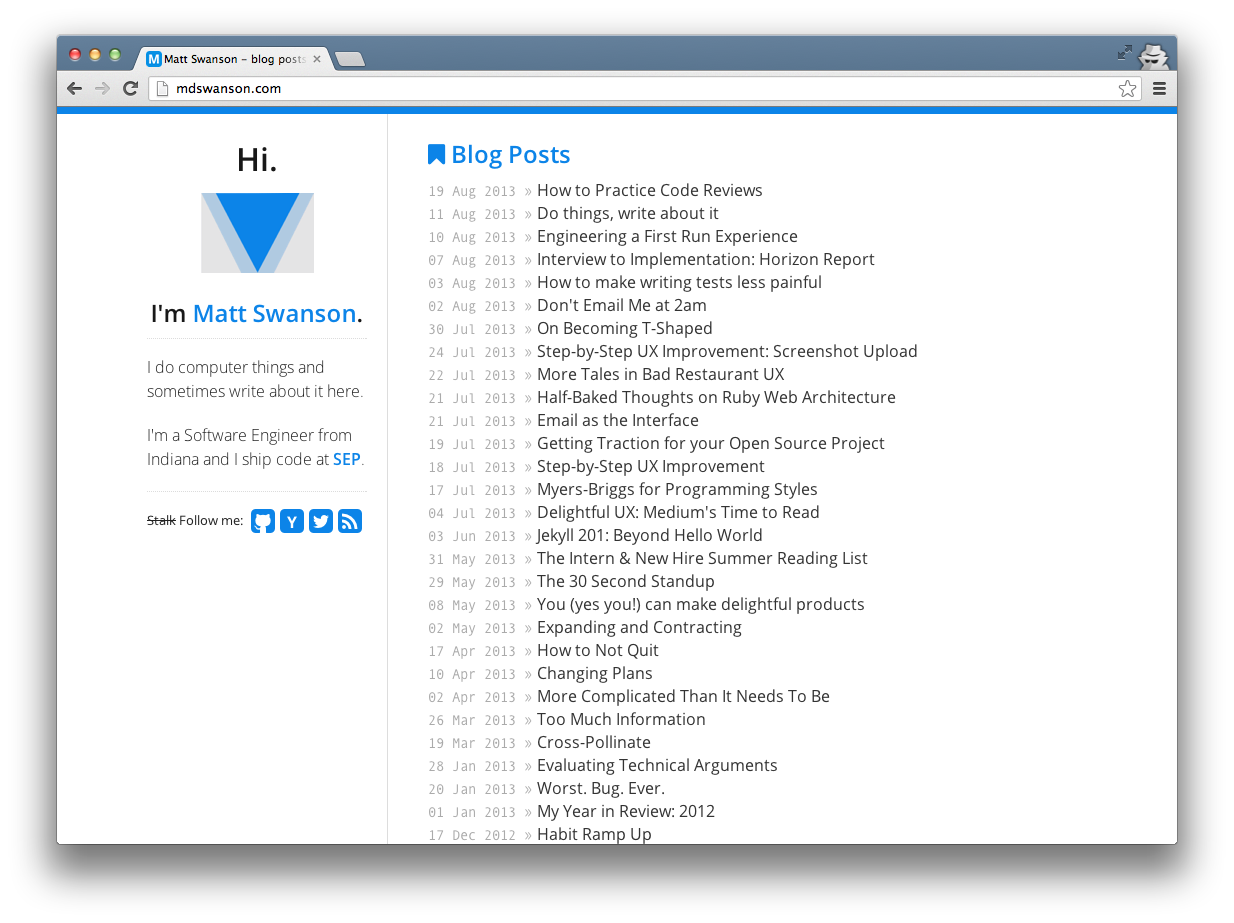
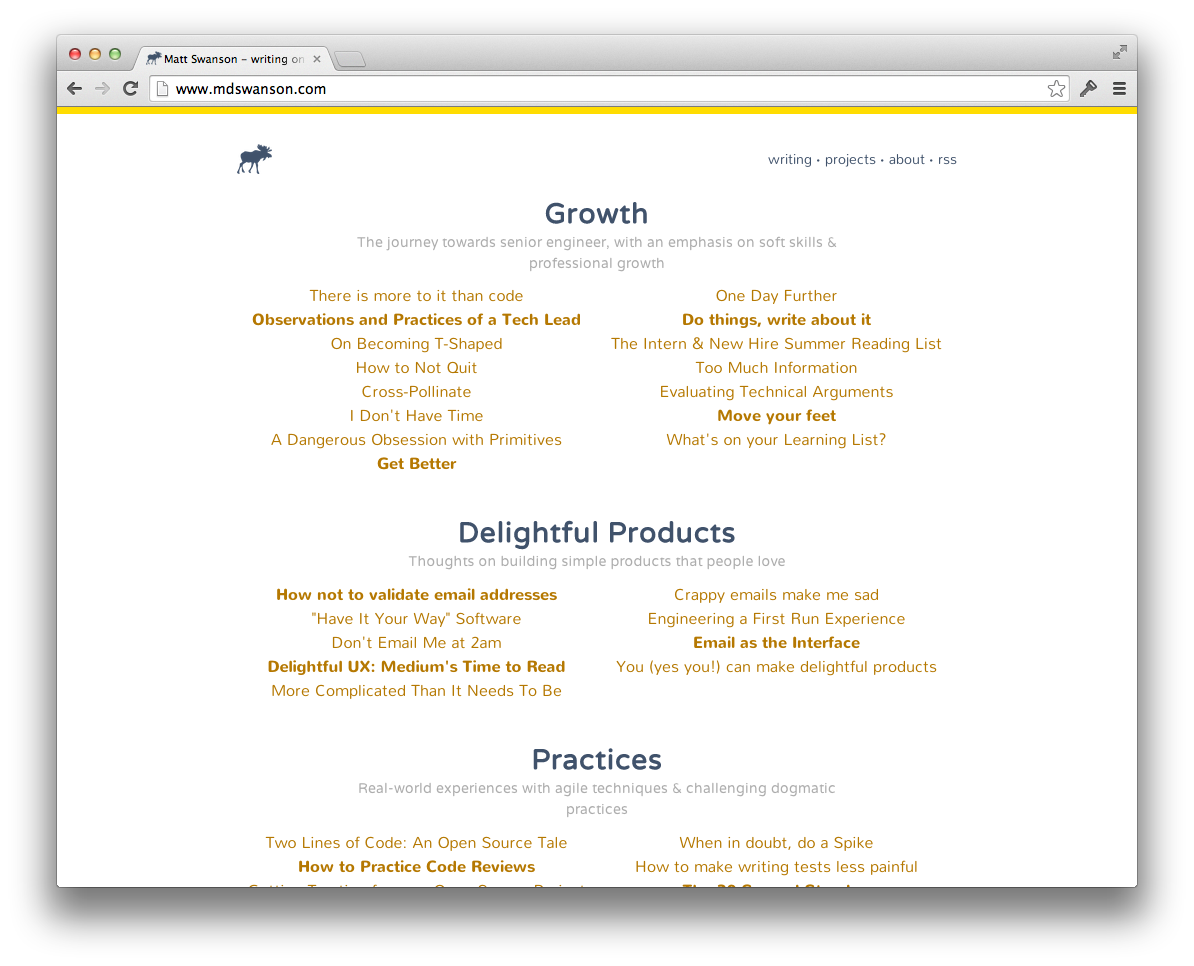
Update README/screenshots

diff --git a/README.md b/README.md
@@ -1,18 +1,15 @@
 ### [My Blog](http://mdswanson.com)
 
-The [Jekyll](http://jekyllrb.com/) source for [http://mdswanson.com](http://mdswanson.com), which contains my blog, talks, and book writeups.
-
-![](https://raw.github.com/swanson/swanson.github.com/master/screenshots/home.png)
+The [Jekyll](http://jekyllrb.com/) source for [http://mdswanson.com](http://mdswanson.com), which contains my blog, projects, and book writeups.
 
 Spelling/grammar corrections are always welcome (and much appreciated :heart:) via Pull Requests.
 
 ---
 ### Theme
-The theme is [Lagom](https://github.com/swanson/lagom), tweaked to my own liking. 
+The theme is ÄLG (unreleased for now).
 
+![](https://raw.github.com/swanson/swanson.github.com/master/screenshots/home.png)
 ![](https://raw.github.com/swanson/swanson.github.com/master/screenshots/blog.png)
-![](https://raw.github.com/swanson/swanson.github.com/master/screenshots/review.png)
-![](https://raw.github.com/swanson/swanson.github.com/master/screenshots/responsive.png)
 
 ---
 
@@ -24,5 +21,3 @@ The following directories and their contents are Copyright Matt Swanson. You may
 * static/
 
 All other directories and files are MIT Licensed. Font Awesome (font/) is licensed under SIL OFL 1.1 and MIT Licences and I claim no ownership.
-
-Licensing for the [Lagom](https://github.com/swanson/lagom) theme is MIT.
